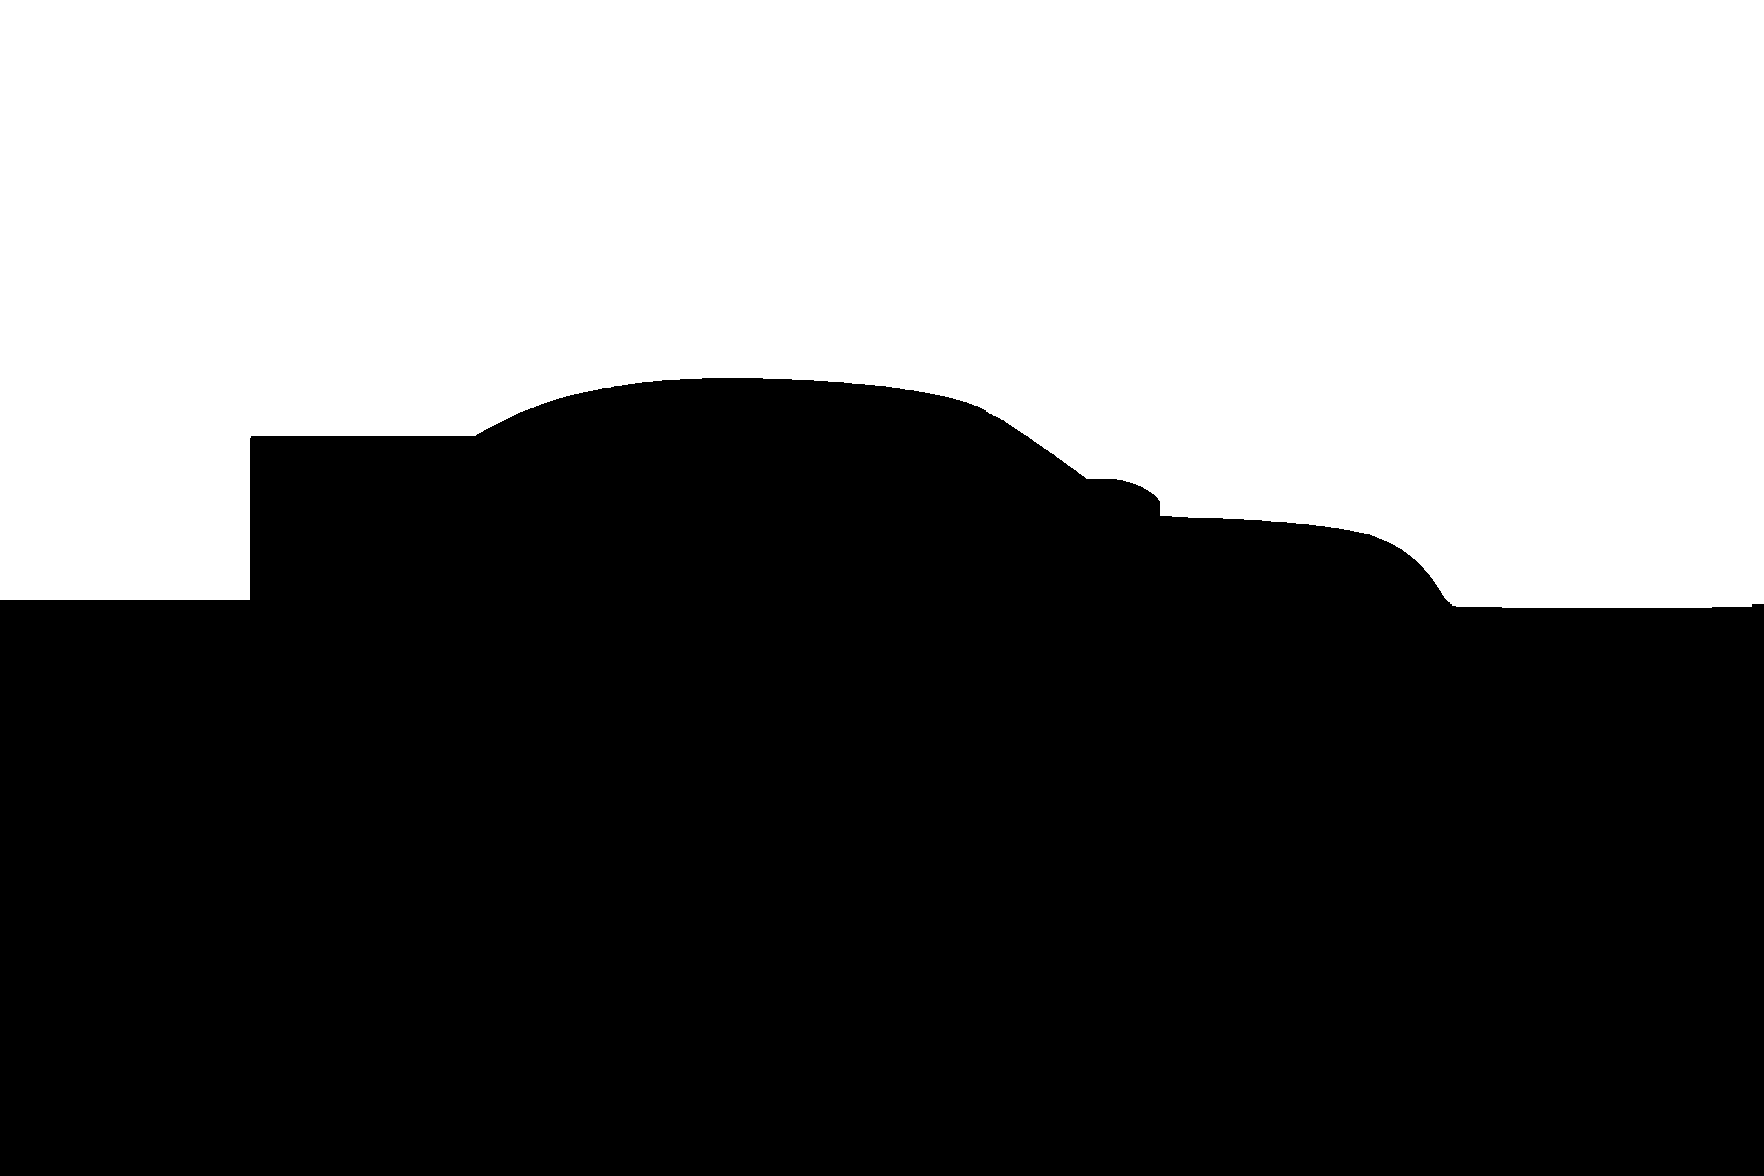
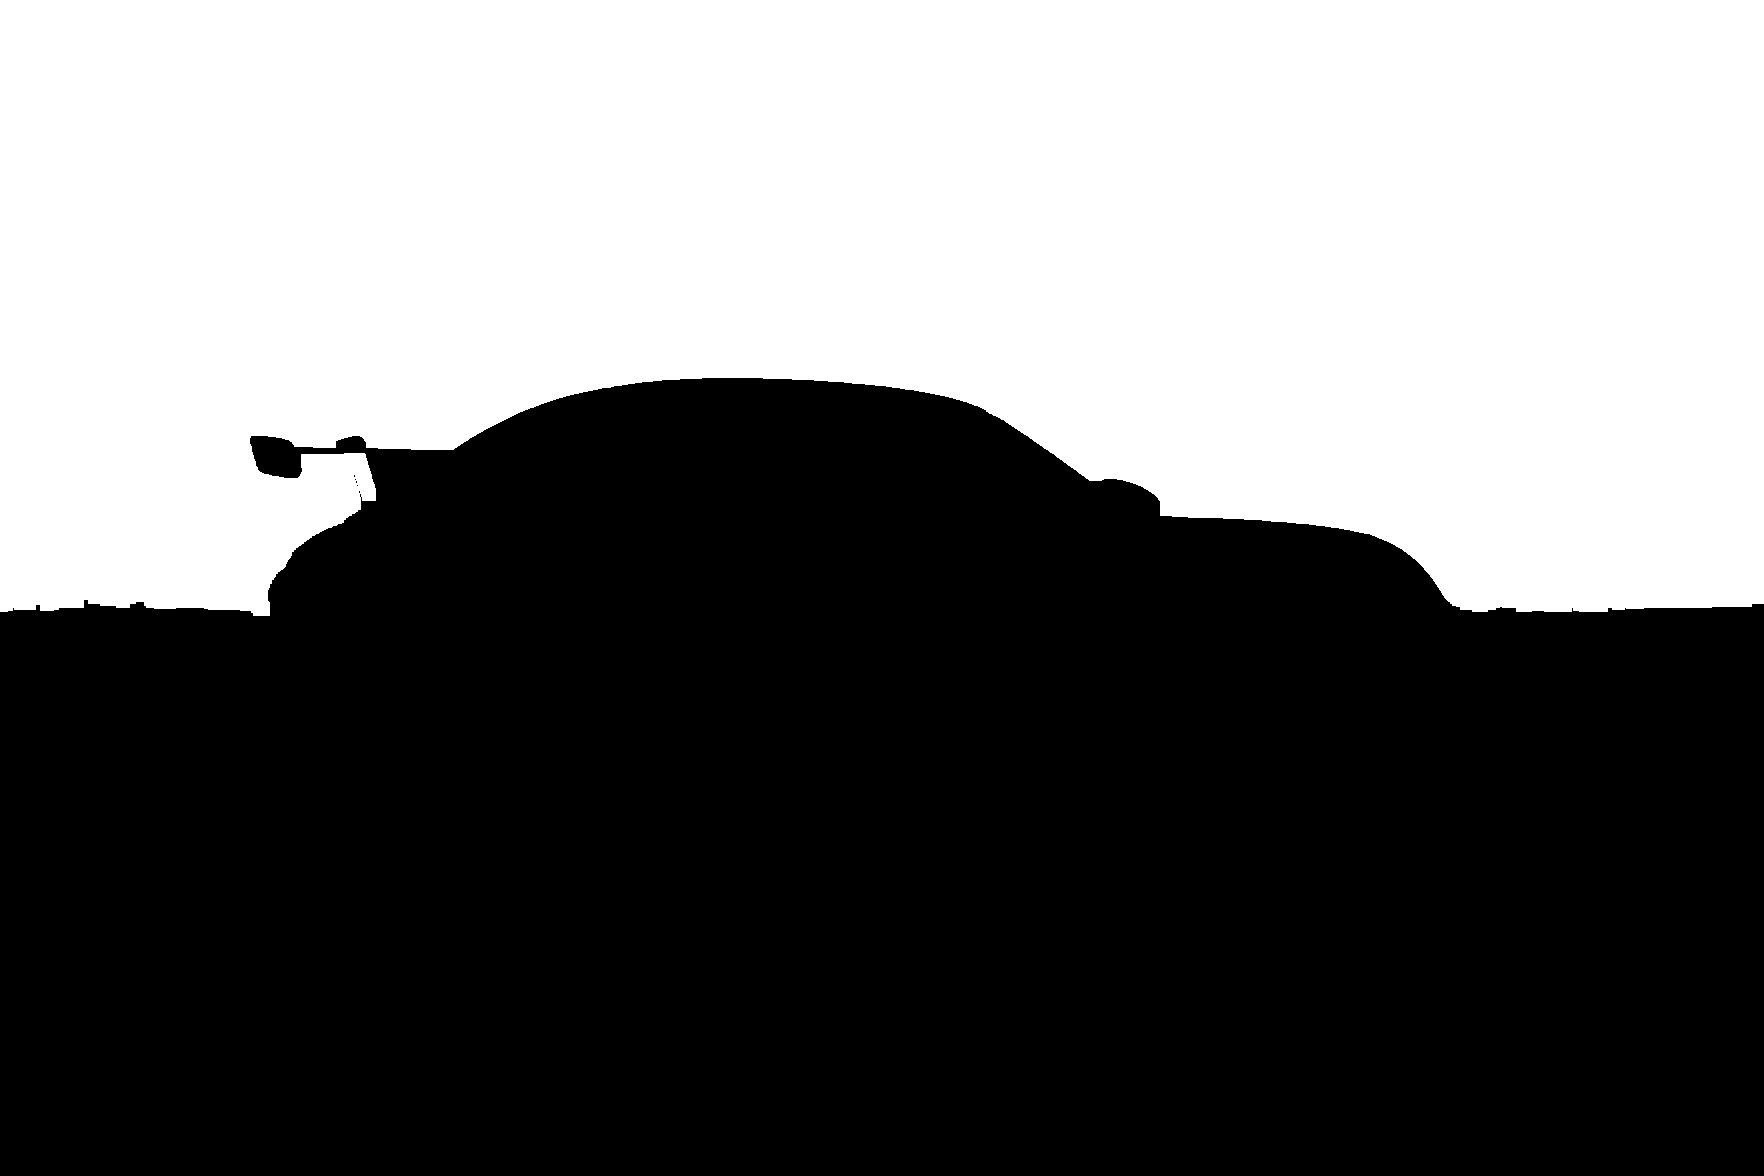
fix(new-era): flood-fill mask + uniform letter-spacing
Mask pipeline rewritten to preserve TRUE background pockets (like the
under-spoiler gap) while still filling INTERIOR holes (the windshield):

1. Binary threshold (luma + orange-dominance)
2. Small separable closing R=6 to bridge thin outline noise
3. Flood fill bg pixels starting from all 4 image edges. Anything
   reachable from outside is real background, stays white in the mask
4. Any white pixel NOT reachable is an isolated interior hole -> fill
   it black

Result :
- Windshield = isolated inside car silhouette -> filled (text hidden)
- Under-spoiler gap = connected to sky -> preserved (text visible)
- Wheel gaps, body shadows = isolated -> filled

Also: letter-spacing on NEW ERA bumped from -0.01em (spec, too tight)
to +0.02em so the letters read more uniformly between NEW and ERA.

Changed region(s): [[0.0, 0.3673, 0.2806, 0.5204], [0.873, 0.4898, 0.9042, 0.5204]]

diff --git a/components/new-era/Hero.tsx b/components/new-era/Hero.tsx
@@ -125,7 +125,7 @@ export default function NewEraHero() {
               style={{
                 fontFamily: "'Bebas Neue', Impact, Haettenschweiler, sans-serif",
                 fontSize: 'clamp(96px, 22vw, 360px)',
-                letterSpacing: '-0.01em',
+                letterSpacing: '0.02em',
               }}
             >
               NEW ERA